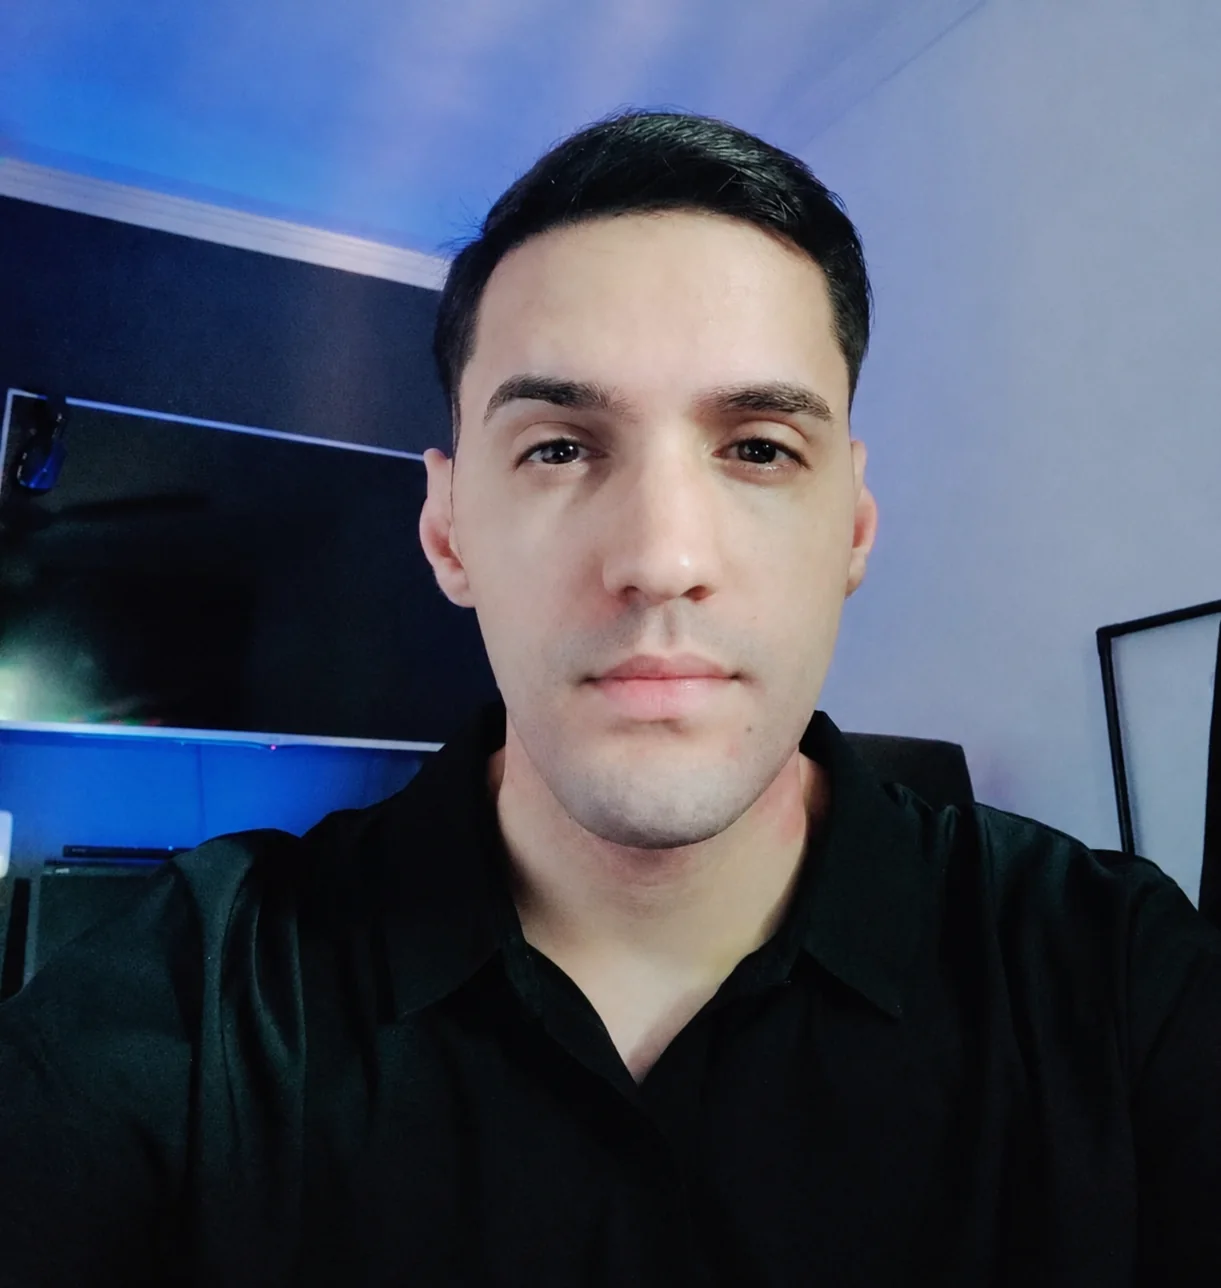
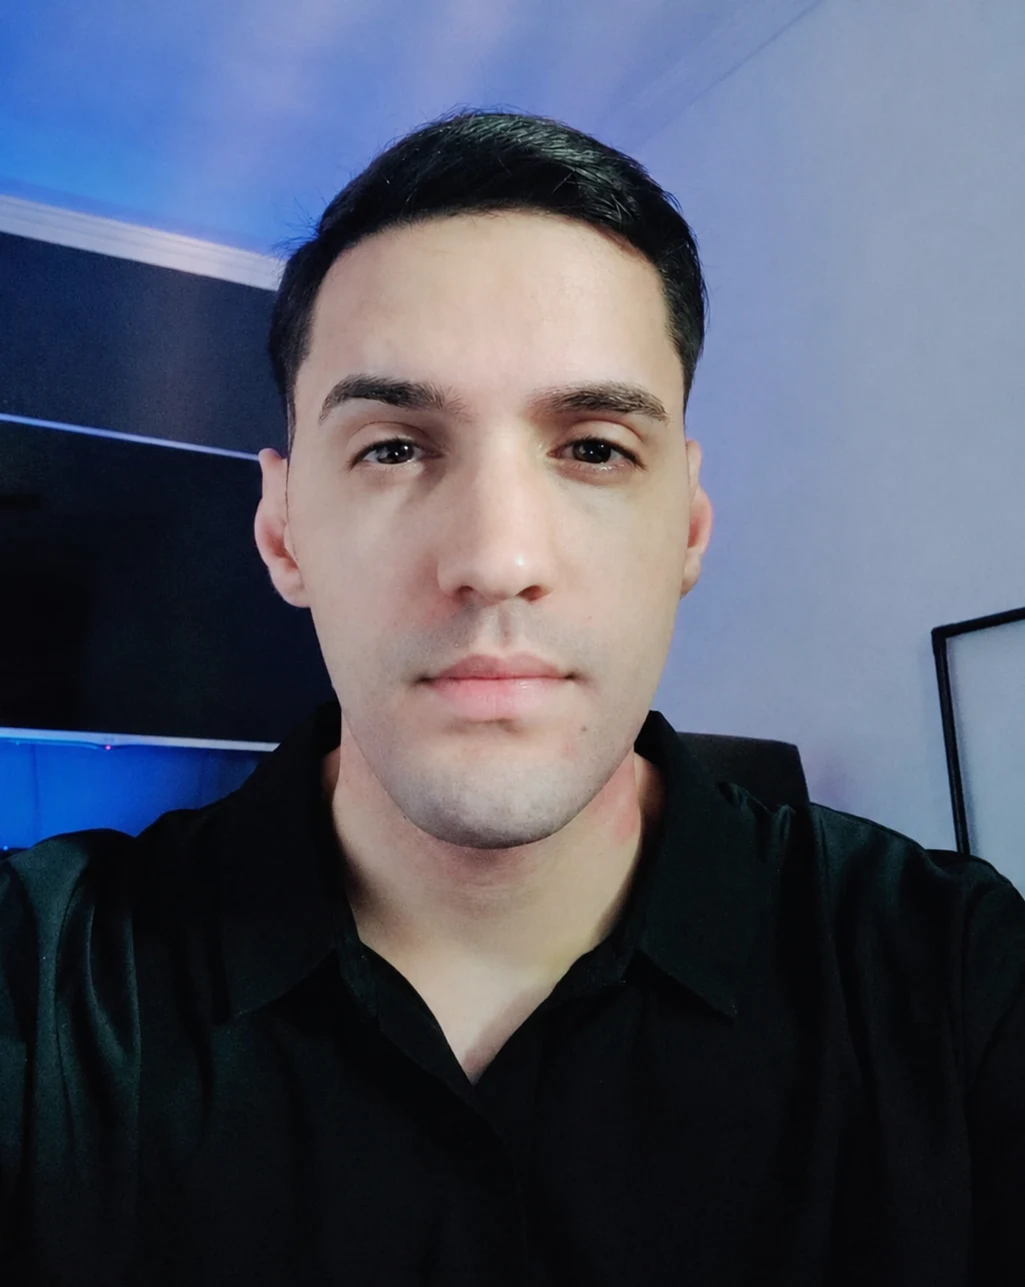
Atualiza foto profissional do portfólio

diff --git a/index.html b/index.html
@@ -46,7 +46,7 @@
         </div>
 
         <figure class="profile-visual reveal">
-          <div class="profile-frame"><img src="assets/images/bruno-neris.webp" width="1221" height="1288" alt="Retrato profissional de Bruno Neris" fetchpriority="high"></div>
+          <div class="profile-frame"><img src="assets/images/bruno-neris.webp?v=2" width="1025" height="1287" alt="Retrato profissional de Bruno Neris" fetchpriority="high"></div>
           <figcaption><span>BRUNO NERIS</span><span>SÃO PAULO, BR</span></figcaption>
         </figure>
       </div>
